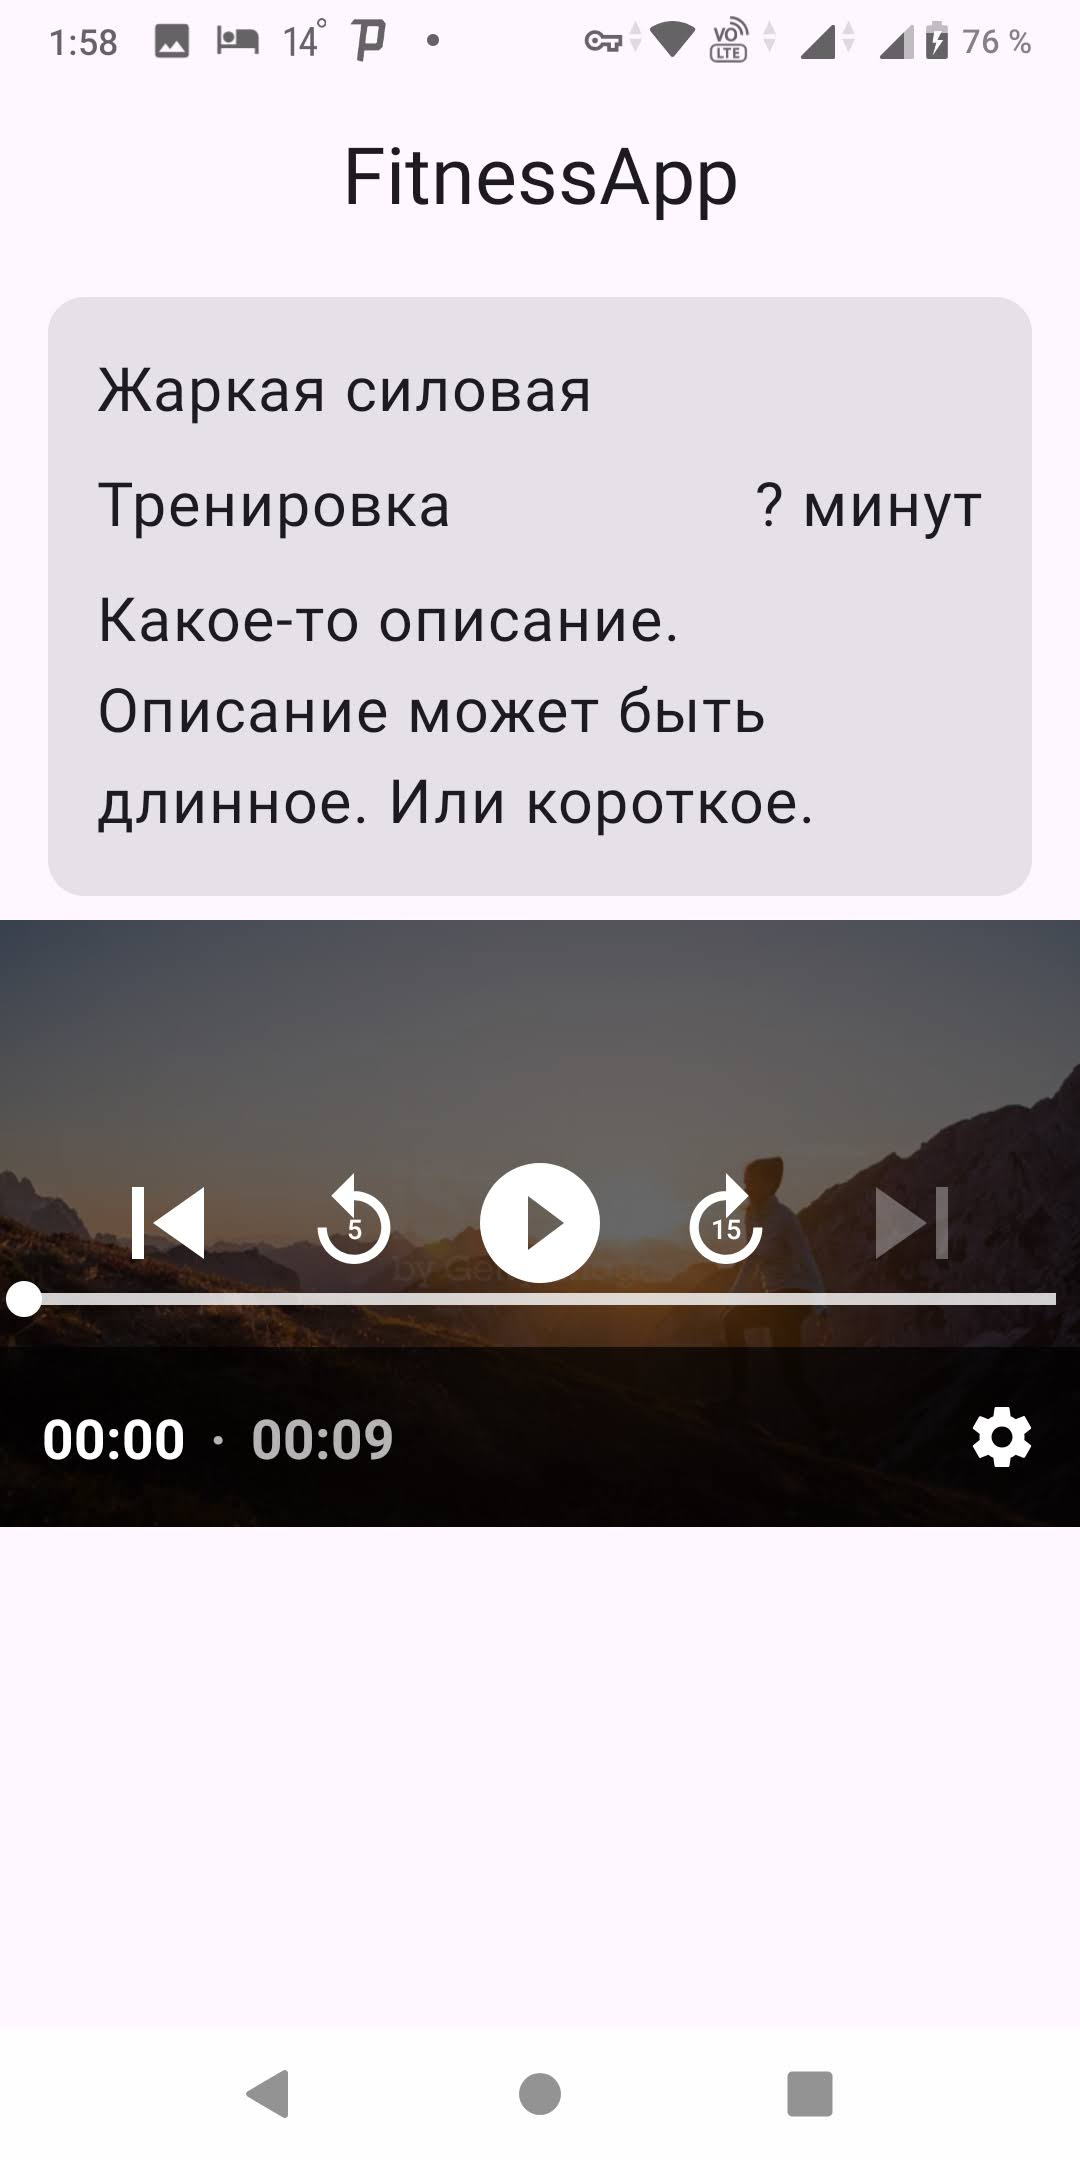
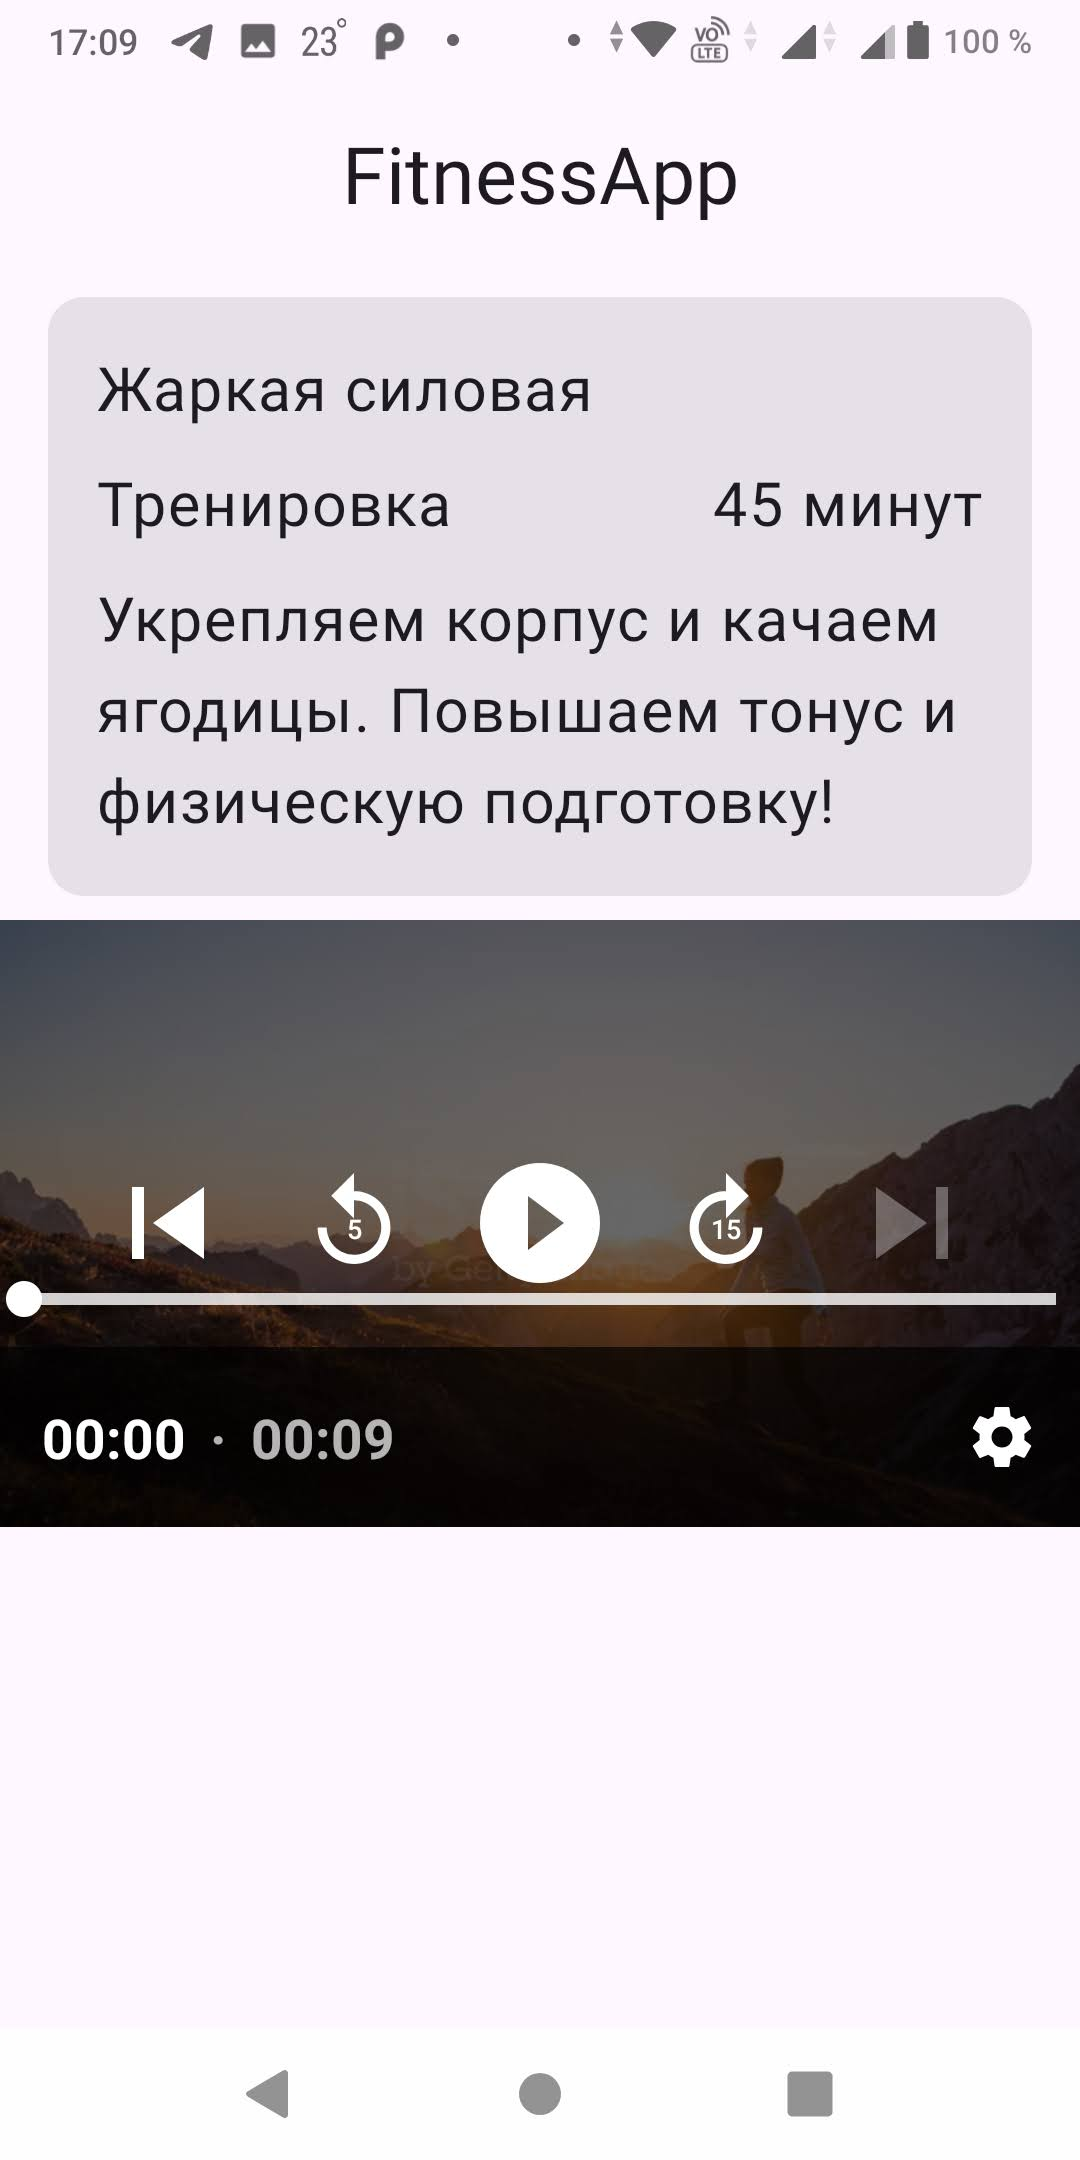
fixed description and duration, fixed screenshots

diff --git a/app/src/main/java/com/osipkat/fitnessapp/model/Workout.kt b/app/src/main/java/com/osipkat/fitnessapp/model/Workout.kt
@@ -1,15 +1,25 @@
 package com.osipkat.fitnessapp.model
 
 import com.osipkat.fitnessapp.R
+import kotlinx.serialization.KSerializer
 import kotlinx.serialization.Serializable
+import kotlinx.serialization.descriptors.PrimitiveKind
+import kotlinx.serialization.descriptors.PrimitiveSerialDescriptor
+import kotlinx.serialization.encoding.Decoder
+import kotlinx.serialization.encoding.Encoder
+import kotlinx.serialization.json.JsonDecoder
+import kotlinx.serialization.json.JsonNull
+import kotlinx.serialization.json.intOrNull
+import kotlinx.serialization.json.jsonPrimitive
 
 @Serializable
 data class Workout(
     val id: Int,
     val title: String,
-// TODO    val description: String,
+    val description: String? = "",
     val type: Int,
-// TODO   val duration: Int
+    @Serializable(with = DurationSerializer::class)
+    val duration: Int
 ) {
     val typeStrRes: Int =
         when(type) {
@@ -19,4 +29,22 @@ data class Workout(
             else -> R.string.workout_type_unknown
         }
 
+}
+
+object DurationSerializer : KSerializer<Int> {
+    override val descriptor =
+        PrimitiveSerialDescriptor("Duration", PrimitiveKind.INT)
+
+    override fun deserialize(decoder: Decoder): Int {
+        val jsonDecoder = decoder as? JsonDecoder
+            ?: error("Can only be used with JSON")
+
+        val element = jsonDecoder.decodeJsonElement()
+        if (element is JsonNull) return 0
+        return element.jsonPrimitive.intOrNull ?: 0
+    }
+
+    override fun serialize(encoder: Encoder, value: Int) {
+        encoder.encodeInt(value)
+    }
 }

diff --git a/app/src/main/java/com/osipkat/fitnessapp/ui/screens/HomeScreen.kt b/app/src/main/java/com/osipkat/fitnessapp/ui/screens/HomeScreen.kt
@@ -25,6 +25,7 @@ import androidx.compose.runtime.Composable
 import androidx.compose.ui.Alignment
 import androidx.compose.ui.Modifier
 import androidx.compose.ui.res.painterResource
+import androidx.compose.ui.res.pluralStringResource
 import androidx.compose.ui.res.stringResource
 import androidx.compose.ui.tooling.preview.Preview
 import androidx.compose.ui.unit.dp
@@ -123,10 +124,14 @@ fun WorkoutItem(
                 horizontalArrangement = Arrangement.SpaceBetween
             ) {
                 Text(stringResource(workout.typeStrRes))
-                Text("? минут")
+                if (workout.duration > 0) {
+                    Text(pluralStringResource(
+                        R.plurals.minutes,
+                        workout.duration,
+                        workout.duration))
+                }
             }
-
-            Text("Какое-то описание. Описание может быть длинное. Или короткое.")
+            workout.description?.let { Text(it) }
         }
     }
 }
@@ -232,7 +237,9 @@ fun WorkoutItemPreview() {
             Workout(
                 id = 1,
                 title = "Утренняя пробежка",
-                type = 1
+                description = "Идеальная пробежка для старта дня",
+                type = 1,
+                duration = 30
             ),
             navigateToDetail = {}
         )